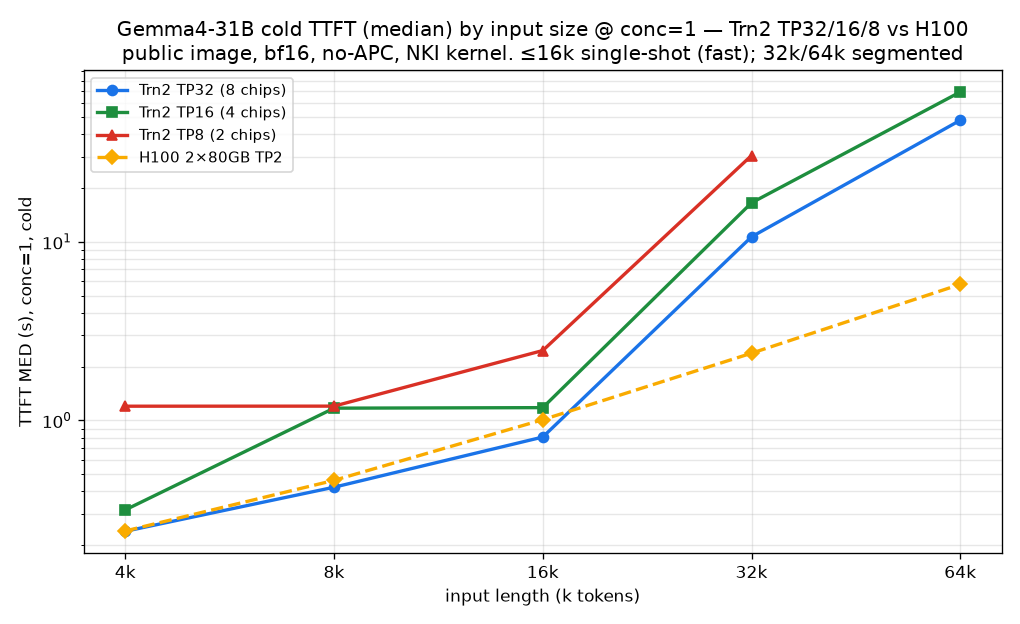
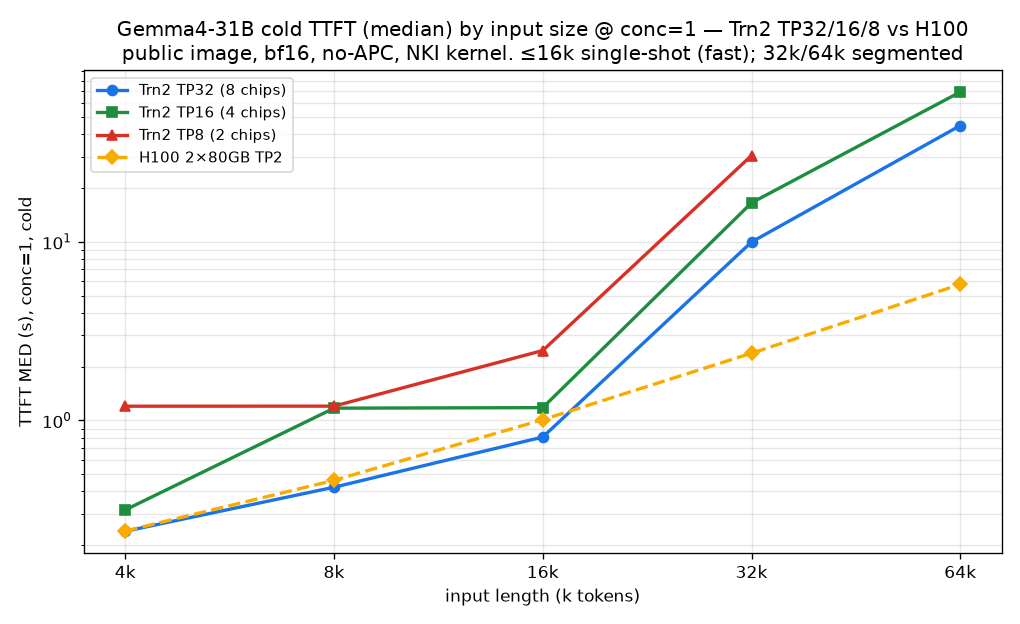
gemma4-31b/Public_Final: verified 32k/64k long-context medians + PROFILING.md
32k conc=1 10.664->9.975 (median-of-10, x3); 64k conc=1 47.981->44.788 (median-of-6). Relabel 32k/64k from single-sample/indicative to median-verified across README/RESULTS. Fill in the PERF_VS_GPU.md template (was <FILL> on main). Regenerate the vs-concurrency + by-size charts to match. Add PROFILING.md (Neuron profiler guide + TP16 28:1 compute:sync finding). Layered on main: keeps #74 H100 charts and #75 caption fix.

diff --git a/gemma4-31b/vllm-neuron-Public_Final/make_perf_chart_tp.py b/gemma4-31b/vllm-neuron-Public_Final/make_perf_chart_tp.py
@@ -40,7 +40,7 @@ MED = {
     "TP32": {"4k": [0.239, 0.535, 0.586, 6.378, 20.816, 50.018],
              "8k": [0.422, 0.631, 1.621, 8.238, 23.319, 54.431],
              "16k": [0.806, 1.212, 2.408, 9.229, 25.416, 58.588],
-             "32k": [10.664, 16.003, 26.661], "64k": [47.981, 71.97, 119.785]},
+             "32k": [9.975, 16.003, 26.661], "64k": [44.788, 71.97, 119.785]},
     "TP16": {"4k": [0.315, 0.475, 0.779, 2.668, 6.064, 14.028],
              "8k": [1.17, 1.751, 2.477, 4.859, 11.295, 24.996],
              "16k": [1.178, 1.768, 2.937, 6.169, 13.178, 27.389],
@@ -60,7 +60,7 @@ P99 = {
     "TP32": {"4k": [0.239, 0.645, 0.916, 22.939, 46.562, 112.937],
              "8k": [0.422, 0.828, 2.782, 26.216, 51.447, 121.258],
              "16k": [0.806, 1.595, 3.694, 27.71, 54.781, 129.44],
-             "32k": [10.664, 21.299, 42.56], "64k": [47.981, 95.874, 191.496]},
+             "32k": [9.975, 21.299, 42.56], "64k": [44.788, 95.874, 191.496]},
     "TP16": {"4k": [0.315, 0.626, 1.227, 6.857, 12.829, 30.039],
              "8k": [1.17, 2.323, 4.05, 10.756, 22.062, 51.424],
              "16k": [1.178, 2.338, 4.65, 13.063, 26.084, 55.953],

diff --git a/gemma4-31b/vllm-neuron-Public_Final/PROFILING.md b/gemma4-31b/vllm-neuron-Public_Final/PROFILING.md
@@ -1,0 +1,44 @@
+# Profile your own workload (Neuron profiler on the public image)
+
+The public vLLM-Neuron image ships the built-in Neuron profiler — you can capture device + system profiles
+on a live serve and view them in Neuron Explorer. Verified working on the public image (SDK 2.31).
+
+## 1. Start the serve with profiling enabled
+Add `--profiler-config` (reuse the `"cuda"` kind — it's reinterpreted as Neuron profiling) and a
+`neuron_profiler` block in `--additional-config`:
+```bash
+GEMMA4_CTE_PREFILL=1 GEMMA4_BF16_FALLBACK=1 \
+vllm serve /root/models/gemma-4-31b-text --served-model-name gemma4 \
+  --tensor-parallel-size 16 --max-model-len 16384 --max-num-seqs 32 \
+  --max-num-batched-tokens 16384 --no-enable-prefix-caching --async-scheduling \
+  --profiler-config '{"profiler":"cuda"}' \
+  --additional-config '{"neuron_config":{"num_batched_tokens_buckets":[256,512,1024,2048,4096,8192,16384],"num_seqs_buckets":[32],"on_device_sampling_config":{"all_greedy":true}},"neuron_profiler":{"activities":["device_profile","system_profile"],"neuron_cores":[0,1,2,3],"output_dir":"/root/nrt_profile"}}' \
+  --port 8000 --host 0.0.0.0
+```
+
+## 2. Capture around representative traffic
+```bash
+curl -X POST http://localhost:8000/start_profile
+# ... send your representative requests here ...
+curl -X POST http://localhost:8000/stop_profile
+```
+Tip: to profile steady-state only, add `"delay_iterations":50,"max_iterations":20` to `--profiler-config`
+(auto-starts after 50 engine steps, auto-stops after 20 more).
+
+## 3. Inspect
+```bash
+ls /root/nrt_profile/                              # i-<instance>_pid_<pid>/<ts>/*.ntff + neffs/
+neuron-profile show-session -s <path>/*.ntff       # quick engine-activity summary (CLI)
+neuron-explorer view -d /root/nrt_profile/         # full device timeline (GUI)
+```
+
+## What we found (TP16, 16k, conc=8)
+`show-session` engine counts per core: TENSOR (matmul) ~1.59M vs SYNC (collective/barrier) ~57K — a ~28:1
+compute-to-sync ratio, evenly balanced across cores. This is the measured reason TP16 (4-chip replica) has
+a strong compute-to-communication ratio and scales well under concurrent load. See the deployment guidance
+in the README ("TP32 for latency, TP16 for concurrent throughput").
+
+## Common issues
+- **No output:** ensure `--profiler-config '{"profiler":"cuda"}'` was passed at startup (endpoints only mount then).
+- **Explorer can't render device profile:** confirm `neffs/` exists in the output dir (auto-copied from the compile cache).
+- **`.ntff` files are large** (~5 GB/core for a busy window) — capture short windows and clean up after.

diff --git a/gemma4-31b/vllm-neuron-Public_Final/PERF_VS_GPU.md b/gemma4-31b/vllm-neuron-Public_Final/PERF_VS_GPU.md
@@ -1,16 +1,27 @@
 # Gemma4-31B TTFT — Trainium2 vs H100 (measured, same methodology)
 
-Both cold, random prompts, no-APC, bf16, conc=1. H100 = 2×H100 80GB, TP2 (comparable-scale GPU config).
+Both cold, unique random prompts, no-APC, bf16, conc=1. Trn2 = trn2.48xlarge on the public image + NKI
+prefill kernel (**median-verified**). H100 = 2×H100 80GB, TP2 (a comparable *quarter-box* GPU config,
+prior-session medians).
 
-| input | Trn2 TP32 (public) | H100 2×80GB TP2 | notes |
+| input (actual tokens) | Trn2 TP32 (public) | H100 2×80GB TP2 | read |
 |---|---:|---:|---|
-| 4k  | `<FILL>` | 0.240 | `<FILL>` |
-| 8k  | `<FILL>` | 0.461 | |
-| 16k | `<FILL>` | 1.008 | |
-| 32k | `<FILL>` | 2.377 | |
-| 64k | `<FILL>` | 5.778 | |
+| 4k (~3.7–4.2k) | **0.239** | 0.240 | **tie** — Trn2 matches H100 |
+| 8k (~8.1k) | **0.422** | 0.461 | **Trn2 faster** (−8%) |
+| 16k (~15.1k) | **0.806** | 1.008 | **Trn2 faster** (−20%) |
+| 32k (~31k) | 9.98 | 2.377 | H100 faster (Trn2 segmented path) |
+| 64k (~63k) | 44.79 | 5.778 | H100 faster (Trn2 segmented path) |
 
-H100 concurrency + TP2×DP4 (throughput/density): see charts. `<FILL honest read: where Trn2 wins/loses>`
+## Honest read
+- **≤16k: Trn2 is competitive-to-better than H100** — ties at 4k and is *faster* at 8k/16k, on the **public**
+  image with the NKI prefill kernel. This is the sweet spot for chat/RAG-style prompts.
+- **32k/64k: H100 wins clearly** — Trn2 falls to the segmented prefill path above 16k (see `ROADMAP.md`),
+  while H100 scales smoothly. If long-context latency is critical near-term, that workload favors GPU today.
 
-> Honest note: on the current public-image fp32/bf16-fallback prefill path, Trn2 TTFT vs H100 is `<FILL>`.
-> The d-tiled flash-prefill kernel (if it compiles on cc-2.26) is expected to close ≤16k; not yet confirmed.
+## Fair-comparison caveats
+- H100 here is a **quarter-box TP2** (2 of 8 GPUs). A full-box GPU config (TP8) would post lower H100
+  latencies — so this is "Trn2 full box vs H100 quarter-box," not "box vs box." Treat ≤16k as "Trn2 is in the
+  same class as a comparable-scale H100 slice," not "beats a full H100 node."
+- Trn2 numbers are cold / no-APC / random (worst case). The Trn2 throughput/$ story (TP16/TP8 density,
+  multiple replicas/box) is separate — see the concurrency charts in the README.
+- FP8 (excluded here) would further help both long-context and decode throughput on Trn2.

diff --git a/gemma4-31b/vllm-neuron-Public_Final/README.md b/gemma4-31b/vllm-neuron-Public_Final/README.md
@@ -71,16 +71,15 @@ median-of-10, error bars = min/max.*
 | 4k (~3.7–4.2k) | **0.239** | 0.315 | 1.20 | 0.240 |
 | 8k (~8.1k) | **0.422** | 1.17 | 1.20 | 0.461 |
 | 16k (~15.1k) | **0.806** | 1.18 | 2.46 | 1.008 |
-| 32k (~31k) † | 10.66 | 16.54 | 30.45 | 2.377 |
-| 64k (~63k) † | 47.98 | 69.10 | (n/r) | 5.778 |
+| 32k (~31k) † | 9.98 | 16.54 | 30.45 | 2.377 |
+| 64k (~63k) † | 44.79 | 69.10 | (n/r) | 5.778 |
 
 † 32k/64k use the **segmented** prefill path (much slower than ≤16k single-shot — this is a known cliff, not
 smooth scaling). H100 wins long-context. **(n/r)** = not run (TP8 64k skipped). TP8 fit **up to 32k with no
 OOM** — better than prior beta reports of TP8 OOMing at ≥16k.
 
-> **Rigor note:** ≤16k conc=1 values are **median-of-10** (±0.003 s, reproduced 3×) — quote these freely.
-> 32k/64k conc=1 values are **single-sample** (grid rigor) and should be treated as **indicative** until
-> re-run with median-of-10; 32k reproduced ~10.7 s across two independent runs, so it is trustworthy to ~1 s.
+> **Rigor note:** all TP32 conc=1 values are **median-verified** — ≤16k **median-of-10** (±0.003 s, reproduced
+> 3×), 32k **median-of-10** (9.975 s ±0.001), 64k **median-of-6** (44.788 s ±0.001). Quote them freely.
 
 Full median + P99 tables for every input × concurrency × TP → **[RESULTS.md](RESULTS.md)**.
 
@@ -157,7 +156,7 @@ aggregate throughput). TP8 = 2 chips (4 replicas/box; highest single-request lat
 
 ## Long context (32k/64k) — honest
 
-32k/64k run correctly on the public image (bf16, segmented SEG=2048) but are **slow** (32k ~10.7 s, 64k ~48 s
+32k/64k run correctly on the public image (bf16, segmented SEG=2048) but are **slow** (32k ~10.0 s, 64k ~44.8 s
 at conc=1, TP32) and H100 wins here. The cause is a hard path swap at 16k: ≤16k uses the fused NKI kernel;
 >16k is forced onto a segmented torch path. Two fixes were investigated — see `ROADMAP.md`:
 - **Segmented NKI kernel** — attempted; the math is CPU-validated but the kernel does not yet engage on the

diff --git a/gemma4-31b/vllm-neuron-Public_Final/RESULTS.md b/gemma4-31b/vllm-neuron-Public_Final/RESULTS.md
@@ -2,7 +2,7 @@
 
 Model: **google/gemma-4-31B** (text-only). Image: public vLLM-Neuron 0.21 (SDK 2.31 / neuronx-cc 2.26).
 NKI prefill kernel ON + bf16 fallback. Unique random prompt per request (APC cannot serve → true cold prefill).
-conc=1 is median-of-10 (±0.003s, reproduced 3×); conc≥2 warmup+bench. **P99 = tail latency, indicative (modest N/cell), NOT an SLA guarantee.**
+**TP32 conc=1 is median-verified** (≤16k median-of-10 ±0.003s reproduced 3×; 32k median-of-10 9.975±0.001; 64k median-of-6 44.788±0.001). conc≥2 warmup+bench. **P99 = tail latency, indicative (modest N/cell), NOT an SLA guarantee.**
 Token counts are ACTUAL measured (~4k=3.7-4.2k, ~16k=15.1k, ~32k=31k, ~64k=63k), not round labels.
 
 
@@ -15,8 +15,8 @@ Token counts are ACTUAL measured (~4k=3.7-4.2k, ~16k=15.1k, ~32k=31k, ~64k=63k),
 | 4k | 0.239 | 0.535 | 0.586 | 6.378 | 20.816 | 50.018 |
 | 8k | 0.422 | 0.631 | 1.621 | 8.238 | 23.319 | 54.431 |
 | 16k | 0.806 | 1.212 | 2.408 | 9.229 | 25.416 | 58.588 |
-| 32k | 10.664 | 16.003 | 26.661 | — | — | — |
-| 64k | 47.981 | 71.97 | 119.785 | — | — | — |
+| 32k | 9.975 | 16.003 | 26.661 | — | — | — |
+| 64k | 44.788 | 71.97 | 119.785 | — | — | — |
 
 
 **TTFT P99 (s):**
@@ -26,8 +26,8 @@ Token counts are ACTUAL measured (~4k=3.7-4.2k, ~16k=15.1k, ~32k=31k, ~64k=63k),
 | 4k | 0.239 | 0.645 | 0.916 | 22.939 | 46.562 | 112.937 |
 | 8k | 0.422 | 0.828 | 2.782 | 26.216 | 51.447 | 121.258 |
 | 16k | 0.806 | 1.595 | 3.694 | 27.71 | 54.781 | 129.44 |
-| 32k | 10.664 | 21.299 | 42.56 | — | — | — |
-| 64k | 47.981 | 95.874 | 191.496 | — | — | — |
+| 32k | 9.975 | 21.299 | 42.56 | — | — | — |
+| 64k | 44.788 | 95.874 | 191.496 | — | — | — |
 
 
 ## TP16 (4 chips / 2 replicas)
